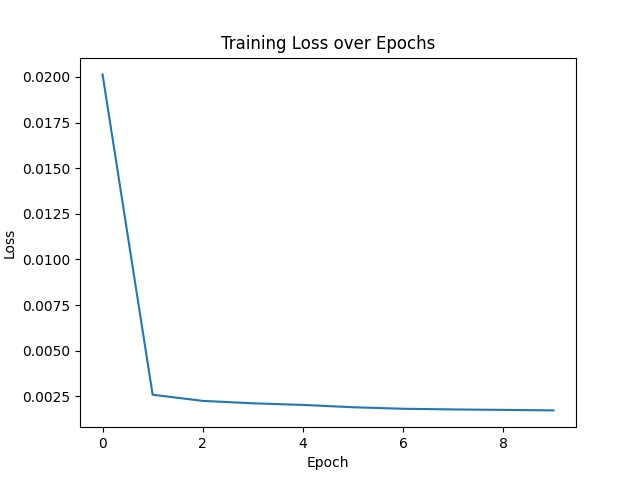
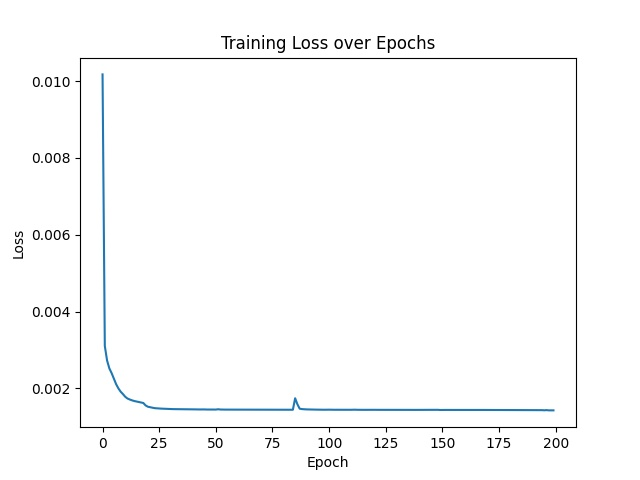
final_result

diff --git a/Classifer.py b/Classifer.py
@@ -1,4 +1,3 @@
-###Data load by wenren
 import os
 import numpy as np
 import torch
@@ -8,8 +7,8 @@ from torch.utils.data import DataLoader, Dataset
 import torch.nn.functional as F
 import matplotlib.pyplot as plt
 import time
+from sklearn.metrics import recall_score, precision_score
 
-# 自定义数据集类
 class NPYDataset(Dataset):
     def __init__(self, root):
         self.data, self.labels = self.load_data(root)
@@ -20,9 +19,9 @@ class NPYDataset(Dataset):
         label = []
         for data_path in path_list:
             data_org = np.load(os.path.join(root, data_path))
-            if data_path[1] == '3':  # 1: hard fall 2: soft fall 3: non-fall
+            if data_path[1] == '3':  # 非跌倒
                 lb = 0
-            else:
+            else:  # 跌倒
                 lb = 1
             data.append(data_org)
             label.append(lb)
@@ -36,7 +35,6 @@ class NPYDataset(Dataset):
         label_tensor = torch.tensor(self.labels[idx], dtype=torch.long)
         return data_tensor, label_tensor
 
-# CNN模型定义
 class LKCNN(nn.Module):
     def __init__(self):
         super(LKCNN, self).__init__()
@@ -44,8 +42,8 @@ class LKCNN(nn.Module):
         self.pool1 = nn.MaxPool2d((4, 1), (4, 1))
         self.conv2 = nn.Conv2d(32, 64, (1, 9), 1)
         self.pool2 = nn.MaxPool2d((1, 4), (1, 4))
-        self.fc1 = nn.Linear(64 * 30 * 14, 1024)  # 需确认这个维度是否正确
-        self.fc2 = nn.Linear(1024, 2)  # 二分类
+        self.fc1 = nn.Linear(64 * 30 * 14, 1024)
+        self.fc2 = nn.Linear(1024, 2)
 
     def forward(self, x):
         x = self.pool1(F.relu(self.conv1(x)))
@@ -55,26 +53,31 @@ class LKCNN(nn.Module):
         x = self.fc2(x)
         return x
 
-# 训练函数
-def train(model, device, train_loader, optimizer, epoch, train_losses, train_counter):
+def train(model, device, train_loader, optimizer, epoch, epoch_losses):
     model.train()
-    for batch_idx, (data, target) in enumerate(train_loader):
+    train_loss = 0
+    total_samples = len(train_loader.dataset)  # 获取训练集的总样本数
+
+    for data, target in train_loader:
         data, target = data.to(device), target.to(device)
         optimizer.zero_grad()
         output = model(data)
-        loss = F.cross_entropy(output, target)
+        loss = torch.nn.functional.cross_entropy(output, target)
         loss.backward()
         optimizer.step()
-        if batch_idx % 10 == 0:
-            train_losses.append(loss.item())
-            train_counter.append((batch_idx * 64) + ((epoch - 1) * len(train_loader.dataset)))
-            print(f'Train Epoch: {epoch} [{batch_idx * len(data)}/{len(train_loader.dataset)} ({100. * batch_idx / len(train_loader):.0f}%)]\tLoss: {loss.item():.6f}')
+        train_loss += loss.item() * data.size(0)  # 累加每个批次的损失，乘以批次内的样本数
 
-# 测试函数
-def test(model, device, test_loader, test_losses, test_accuracy):
+    average_loss = train_loss / total_samples  # 使用总样本数计算平均损失
+    average_loss = average_loss / 100
+    epoch_losses.append(average_loss)
+    print(f'Train Epoch: {epoch}\tAverage Loss: {average_loss:.6f}')
+
+def test(model, device, test_loader, test_losses, test_accuracy, test_recall, test_precision):
     model.eval()
     test_loss = 0
     correct = 0
+    all_targets = []
+    all_outputs = []
     with torch.no_grad():
         for data, target in test_loader:
             data, target = data.to(device), target.to(device)
@@ -82,50 +85,79 @@ def test(model, device, test_loader, test_losses, test_accuracy):
             test_loss += F.cross_entropy(output, target, reduction='sum').item()
             pred = output.argmax(dim=1, keepdim=True)
             correct += pred.eq(target.view_as(pred)).sum().item()
+            all_targets.extend(target.view_as(pred).cpu().numpy())
+            all_outputs.extend(pred.cpu().numpy())
+
     test_loss /= len(test_loader.dataset)
     test_losses.append(test_loss)
     test_accuracy.append(100. * correct / len(test_loader.dataset))
-    print(f'\nTest set: Average loss: {test_loss:.4f}, Accuracy: {correct}/{len(test_loader.dataset)} ({100. * correct / len(test_loader.dataset):.0f}%)\n')
+    recall = 100 * recall_score(all_targets, all_outputs)  # Multiply by 100 for percentage
+    precision = 100 * precision_score(all_targets, all_outputs)  # Multiply by 100 for percentage
+    test_recall.append(recall)
+    test_precision.append(precision)
+    print(f'\nTest set: Average loss: {test_loss:.4f}, Accuracy: {correct}/{len(test_loader.dataset)} ({100. * correct / len(test_loader.dataset):.0f}%), Recall: {recall:.2f}%, Precision: {precision:.2f}%\n')
 
-# 主程序
 def main():
     device = torch.device("cuda" if torch.cuda.is_available() else "cpu")
     model = LKCNN().to(device)
-    optimizer = optim.Adam(model.parameters(), lr=0.0005)
     name = torch.cuda.get_device_name()
     print('Using device '+ name + ' to train the model.')
-
+    optimizer = optim.Adam(model.parameters(), lr=0.0005)
     train_dataset = NPYDataset('/tmp/FYP_Projects/Diffusion')
     test_dataset = NPYDataset('/tmp/FYP_Projects/12_DTweighted/test')
     train_loader = DataLoader(train_dataset, batch_size=200, shuffle=True)
     test_loader = DataLoader(test_dataset, batch_size=200, shuffle=False)
     print("Data loaded!")
 
-    train_losses, train_counter = [], []
-    test_losses, test_accuracy = [], []
+    epoch_losses = []
+    test_losses, test_accuracy, test_recall, test_precision = [], [], [], []
 
     begin = time.time()
-    for epoch in range(1, 51):  # 进行10个epochs的训练
-        train(model, device, train_loader, optimizer, epoch, train_losses, train_counter)
-        test(model, device, test_loader, test_losses, test_accuracy)
+    for epoch in range(1, 201):
+        train(model, device, train_loader, optimizer, epoch, epoch_losses)
+        test(model, device, test_loader, test_losses, test_accuracy, test_recall, test_precision)
 
-    # 绘制loss和accuracy曲线
-    plt.figure(figsize=(12, 6))
-    plt.subplot(1, 2, 1)
-    plt.plot(train_counter, train_losses, color='blue')
-    plt.xlabel('Number of training examples seen')
-    plt.ylabel('Training loss')
 
-    plt.subplot(1, 2, 2)
-    plt.plot(test_accuracy, color='red')
+    # 计算所有周期的平均损失、准确率、召回率和精确率
+    average_training_loss = sum(epoch_losses) / len(epoch_losses)
+    average_test_accuracy = sum(test_accuracy) / len(test_accuracy)
+    average_test_recall = sum(test_recall) / len(test_recall)
+    average_test_precision = sum(test_precision) / len(test_precision)
+
+    # 打印计算得到的平均值
+    print(f'Average Training Loss over {len(epoch_losses)} epochs: {average_training_loss:.6f}')
+    print(f'Average Test Accuracy over {len(test_accuracy)} epochs: {average_test_accuracy:.3f}%')
+    print(f'Average Test Recall over {len(test_recall)} epochs: {average_test_recall:.3f}%')
+    print(f'Average Test Precision over {len(test_precision)} epochs: {average_test_precision:.3f}%')
+
+    plt.figure(figsize=(24, 20))
+    plt.subplot(2, 2, 1)
+    plt.plot(range(1, len(epoch_losses)+1), epoch_losses, color='blue')
     plt.xlabel('Epochs')
-    plt.ylabel('Test accuracy (%)')
+    plt.ylabel('Average Training Loss')
+
+    plt.subplot(2, 2, 2)
+    plt.plot(range(1, len(test_accuracy)+1), test_accuracy, color='red')
+    plt.xlabel('Epochs')
+    plt.ylabel('Test Accuracy (%)')
+
+    plt.subplot(2, 2, 3)
+    plt.plot(range(1, len(test_recall)+1), test_recall, color='green')
+    plt.xlabel('Epochs')
+    plt.ylabel('Test Recall (%)')
+
+    plt.subplot(2, 2, 4)
+    plt.plot(range(1, len(test_precision)+1), test_precision, color='purple')
+    plt.xlabel('Epochs')
+    plt.ylabel('Test Precision (%)')
 
     plt.tight_layout()
     plt.show()
-    plt.savefig("Classifier.jpg")
+    plt.savefig("Classifier_performance_diffusion.jpg")
+
+
     elapsed = (time.time() - begin) / 60
-    print(f'Task finished! cost_time={elapsed:.3f} min')
+    print(f'Task finished! Total time={elapsed:.3f} min')
 
 if __name__ == '__main__':
     main()

diff --git a/diffusion.py b/diffusion.py
@@ -143,7 +143,7 @@ criterion = nn.MSELoss()
 dataset = NPYDataset('/tmp/FYP_Projects/12_DTweighted/train', betas, device)
 dataloader = DataLoader(dataset, batch_size=200, shuffle=True)
 print("Data loaded!")
-train_losses = train(model, dataloader, 10, optimizer, criterion, device)
+train_losses = train(model, dataloader, 200, optimizer, criterion, device)
 torch.save(model.state_dict(),'/tmp/FYP_Projects/diffusion_model.pt')
 print("Model saved!")
 
